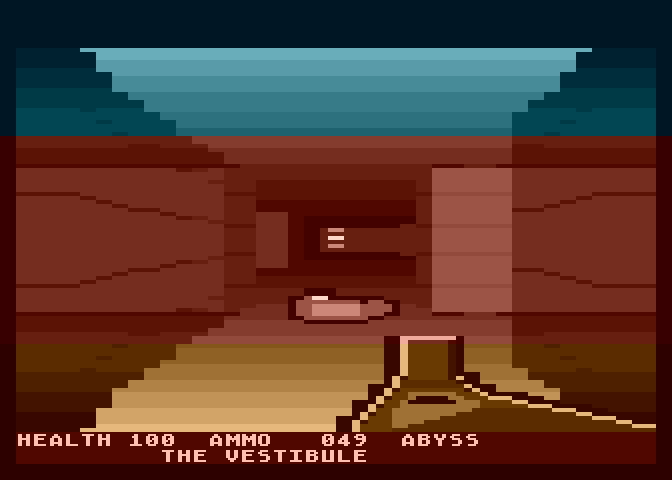
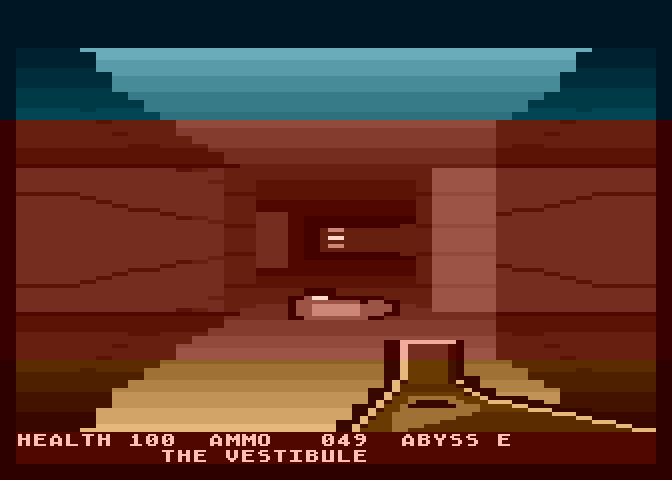
A compass on the status line, and a check that was measuring the autoplayer
Built after the map rather than instead of it, which turned out to be the right
order: the map settles the question the compass could not answer alone. There
is now one place that decides north. gentables.py builds the ray table with
dx=cos and dy=sin, so angle 0 is +X and the grid is row-major, so +Y is DOWN
the map -- north is -Y, which is up the map screen. `N` on the status line and
up on the map mean the same thing by construction, which is why the compass
lives in automap.asm and not with the HUD.

43 bytes: 16 of table, the rest a tail call off the HUD's alive path. Alive
path only -- the banners are 32 characters and own columns 30-31 while up.
Columns 30-31 and not 32-39, because every string in the game stops at 32 and
that is the part of a 40-column line a real CRT has been seen to show.

The check drives each cardinal into pang and makes the player WALK, because
comparing the two characters against a list would only prove the table was
copied correctly. What can actually be wrong is the convention, and a compass
rotated ninety degrees is worse than none: you would trust it.

Then `the hulk towers over a husk` failed at 1.19 against a threshold of 1.2,
having read 1.23 the day before. 43 bytes of HUD code cannot change how tall a
hulk is, and did not. The check spawned its subject three cells east of wherever
the player had DRIFTED to by frame 200, facing whatever they faced, separately
[…]

diff --git a/site/index.html b/site/index.html
@@ -151,7 +151,7 @@ footer .wrap{display:flex;justify-content:space-between;gap:20px;flex-wrap:wrap}
 <section id="play">
   <div class="wrap">
     <h2>PLAY</h2>
-    <p class="lead">This is the real game — byte-for-byte the same 30,083-byte executable that runs
+    <p class="lead">This is the real game — byte-for-byte the same 30,126-byte executable that runs
     on the hardware, here running in an Atari 800XL emulator compiled to WebAssembly. PAL, with
     sound: an audio engine that for most of this game's life was verified only as POKEY register
     traces, never actually heard.</p>
@@ -203,6 +203,16 @@ footer .wrap{display:flex;justify-content:space-between;gap:20px;flex-wrap:wrap}
         <p class="note">Fire is also the carry-on button — it starts the game, clears every banner and
         restarts you when you die. Whenever the game is waiting, it is waiting for fire, and it says so
         on screen.</p>
+      </div>
+
+      <div class="card"><h3>THE COMPASS</h3>
+        <p>Two letters on the right of the status line, reading to eight points:
+        <code>HEALTH 100&nbsp;&nbsp;AMMO&nbsp;&nbsp;&nbsp;050&nbsp;&nbsp;ABYSS SE</code></p>
+        <p class="note">Worth more than it looks. Every hall down here is a regular grid of pillars, so
+        once you have turned round twice inside one there is nothing in the view to tell you which way
+        you came in — the compass is the thing that tells you. It shares its north with the map:
+        <b><kbd>N</kbd> on the status line is up on the map screen</b>, so turn until it reads N and you
+        are walking up the map. It steps aside while a message is up, and comes back when it clears.</p>
       </div>
 
       <div class="card"><h3>THE MAP — ONLY WHAT YOU LOOKED AT</h3>
@@ -290,7 +300,7 @@ footer .wrap{display:flex;justify-content:space-between;gap:20px;flex-wrap:wrap}
       <div><b>5</b><span>CYCLES A PIXEL &mdash; THE 6502 FLOOR</span></div>
       <div><b>~10.2 fps</b><span>WORLD RENDER</span></div>
       <div><b>50 Hz</b><span>INPUT, WHATEVER THE RENDERER IS DOING</span></div>
-      <div><b>75/75</b><span>CHECKS, ALL ON PIXELS OR STATE</span></div>
+      <div><b>76/76</b><span>CHECKS, ALL ON PIXELS OR STATE</span></div>
       <div><b>1</b><span>NIGHT TO BUILD</span></div>
     </div>
     <div class="cols" style="margin-top:26px">
@@ -351,7 +361,7 @@ footer .wrap{display:flex;justify-content:space-between;gap:20px;flex-wrap:wrap}
 
 <footer>
   <div class="wrap">
-    <span>ABYSS &middot; <a href="https://github.com/tonygillett136/a8doomish">github.com/tonygillett136/a8doomish</a> &middot; <a href="emu/abyss.xex" download>abyss.xex</a> (30,083 bytes)</span>
+    <span>ABYSS &middot; <a href="https://github.com/tonygillett136/a8doomish">github.com/tonygillett136/a8doomish</a> &middot; <a href="emu/abyss.xex" download>abyss.xex</a> (30,126 bytes)</span>
     <span>Built by <a href="https://claude.com/claude-code">Claude Code</a> with Tony Gillett.
     Not affiliated with id Software; DOOM is a trademark of id Software LLC.</span>
   </div>

diff --git a/tools/verify.py b/tools/verify.py
@@ -516,6 +516,13 @@ class Sweep:
                  sec is True, 'a secret reads as something other than stone'
                  if sec is not True else '')
 
+        points, agree = self.compass()
+        want = ['E', 'SE', 'S', 'SW', 'W', 'NW', 'N', 'NE']
+        self.chk('the compass points where you walk',
+                 points == want and agree,
+                 'the eight points read %s; walking each cardinal %s the letter'
+                 % (' '.join(points), 'agrees with' if agree else 'CONTRADICTS'))
+
         drew, held, freed, stalled, off = self.map_key()
         self.chk('START holds the map up and stops the world',
                  drew and held and freed and stalled,
@@ -758,6 +765,24 @@ class Sweep:
     def hulk_ratio(self):
         import metrics as M
 
+        # (13,6) is open on all four sides and looks east down a clear row;
+        # the subject stands at (16,6), three cells away.
+        EYE, SUBJ, EAST = (13, 6), (16, 6), 0
+
+        def pin(s):
+            """Nail the viewpoint down. This check used to measure from
+            wherever the player had drifted to by frame 200, facing whatever
+            they happened to be facing, with the subject planted three cells
+            east of THAT -- so the husk and the hulk were not being compared
+            from the same place, and the ratio wandered whenever anything
+            shifted the frame timing. Forty-three bytes of compass moved it
+            from 1.23 to 1.19 and failed a threshold of 1.2, having changed
+            nothing whatever about how tall a hulk is. Same cell, same heading,
+            same three cells of corridor, both times."""
+            s.p[PX_HI], s.p[PX_LO] = EYE[0], 0x80
+            s.p[PY_HI], s.p[PY_LO] = EYE[1], 0x80
+            s.p[PANG] = EAST
+
         def rows(ty):
             s = Sweep(self.xex)
             s.a.frame(80)
@@ -765,17 +790,17 @@ class Sweep:
             s.a.frame(200)
             for i in range(6):
                 s.p[AC_LIVE + i] = 0
-            s.go(20)
-            ref = M.luma(M.grab(s.a))
-            m = s.m()
-            for ad, v in ((AC_XHI, m[PX_HI] + 3), (AC_XLO, 0x80),
-                          (AC_YHI, m[PY_HI]), (AC_YLO, 0x80),
-                          (AC_LIVE, 1), (AC_STATE, 1), (AC_HP, 250)):
-                s.p[ad] = v
-            s.p[AC_TYPE] = ty
             for _ in range(20):
-                s.p[AC_HP] = 250
-                s.p[AC_TYPE] = ty
+                pin(s)
+                s.a.frame(1)
+            ref = M.luma(M.grab(s.a))
+            for _ in range(20):
+                pin(s)
+                for ad, v in ((AC_XHI, SUBJ[0]), (AC_XLO, 0x80),
+                              (AC_YHI, SUBJ[1]), (AC_YLO, 0x80),
+                              (AC_LIVE, 1), (AC_STATE, 1), (AC_HP, 250),
+                              (AC_TYPE, ty)):
+                    s.p[ad] = v     # position too: left alone, it walks at you
                 s.a.frame(1)
             now = M.luma(M.grab(s.a))
             return sum(1 for r in range(96)
@@ -956,6 +981,54 @@ class Sweep:
         s.descend()
         fresh = sum(1 for i in range(1024) if s.m()[VIS + i])
         return fresh, seen, 1024 - seen, wrong, secret
+
+    def compass(self):
+        """The heading on the status line, checked against where you WALK.
+
+        Reading the two characters back and comparing them to a table would
+        only prove the table was copied correctly into the binary. The thing
+        that can actually be wrong is the CONVENTION -- whether angle 0 is +X
+        or +Y, and whether north is up the map or down it -- and a compass that
+        is rotated ninety degrees is worse than no compass at all. So each
+        cardinal is driven into `pang`, the player is made to walk, and the
+        letter has to agree with the direction they went.
+        """
+        CH = {0: ' ', 37: 'E', 51: 'S', 55: 'W', 46: 'N'}
+        col = HUDRAM + 40 + 30
+        s = Sweep(self.xex)
+        s.a.frame(80)
+        s.pull_trigger()
+        s.a.frame(60)
+
+        def letter():
+            m = s.m()
+            return (CH.get(m[col], '?') + CH.get(m[col + 1], '?')).strip()
+
+        points = []
+        for ang in range(0, 256, 32):
+            s.p[PANG] = ang
+            s.go_tick()
+            points.append(letter())
+
+        agree = True
+        for ang, want in ((0, 'E'), (64, 'S'), (128, 'W'), (192, 'N')):
+            s.p[PX_HI], s.p[PX_LO] = 13, 0x80    # open on all four sides
+            s.p[PY_HI], s.p[PY_LO] = 6, 0x80
+            s.p[PANG] = ang
+            s.go_tick()
+            got = letter()
+            m = s.m()
+            x0, y0 = m[PX_HI] * 256 + m[PX_LO], m[PY_HI] * 256 + m[PY_LO]
+            for _ in range(4):
+                s.go_tick(joy=1)
+            m = s.m()
+            dx = m[PX_HI] * 256 + m[PX_LO] - x0
+            dy = m[PY_HI] * 256 + m[PY_LO] - y0
+            # east is +X; north is -Y, which is UP the map
+            walked = {'E': dx > 40, 'W': dx < -40,
+                      'S': dy > 40, 'N': dy < -40}[want]
+            agree &= (got == want) and walked
+        return points, agree
 
     def map_key(self):
         """Hold START: the map goes up, the hue goes flat, the world stops.

diff --git a/DEVLOG.md b/DEVLOG.md
@@ -2911,3 +2911,75 @@ PNG. Which was the open question — the aspect-ratio arithmetic said the cells
 would come out square on a 4:3 tube, but the emulator renders 384x240 square
 buffer pixels and cannot show you that, so the shape of the map was the one
 thing no amount of sweeping could confirm.
+
+---
+
+## The compass, and a check that was measuring the wrong thing
+
+Tony: *"BTW, I didn't see the compass?"* He hadn't, because it was never built
+— he picked the map out of the two ideas and the map is what got made. Building
+it now, after the map rather than instead of it, turned out to be the better
+order anyway, because the map settles the question the compass could not answer
+on its own: **which way is north.**
+
+There is now exactly one place in the codebase that decides it. `gentables.py`
+builds the ray table with `dx=cos, dy=sin`, so angle 0 is +X and 64 is +Y; the
+grid is row-major, so +Y is *down* the map. North is therefore -Y, which is up
+the map screen — and `N` on the status line and up on the map now mean the same
+thing by construction. The compass lives in `automap.asm` for that reason and
+not because it is anything to do with drawing a map.
+
+Forty-three bytes: sixteen of table, the rest a `jmp compass_hud` tail call off
+the end of the HUD's alive path. Only the alive path, because the banners are
+32 characters wide and own columns 30-31 while they are up; a heading in the
+middle of `FIRE TO DESCEND` is not an improvement. Columns 30-31 and not 32-39,
+too — the line is 40 wide, every string in the game stops at 32, and 32 columns
+is the part of it a real CRT has actually been seen to display.
+
+### Verifying a convention, not a table
+
+Reading the two characters back and comparing them against a list would only
+prove the table had been copied into the binary correctly. The thing that can
+actually be wrong is the *convention* — whether angle 0 is +X or +Y, whether
+north is up the map or down it — and a compass rotated ninety degrees is worse
+than no compass at all, because you would trust it.
+
+So the check drives each cardinal into `pang`, makes the player **walk**, and
+requires the letter to agree with the direction they went. All four agree:
+`E` moves +X, `S` moves +Y, `W` moves -X, `N` moves -Y.
+
+### The check that had been measuring the autoplayer
+
+Adding the compass failed `the hulk towers over a husk`: ratio 1.19 against a
+threshold of 1.2, where it had read 1.23 the day before. Forty-three bytes of
+HUD code cannot change how tall a hulk is, and did not.
+
+The check spawned its subject three cells east of **wherever the player had
+drifted to by frame 200**, facing whatever they happened to be facing, and did
+that separately for the husk and for the hulk. So the two measurements were not
+being taken from the same place, and the ratio moved whenever anything at all
+shifted the frame timing — which twenty extra cycles in the VBI duly did. The
+number was never a fact about hulks. It was a fact about where the autoplayer
+had got to.
+
+Pinned the viewpoint instead of loosening the threshold: same cell, same
+heading, three cells of clear corridor, the subject's position re-poked every
+frame so it cannot walk closer while being measured. The proof it worked is
+that the *old* binary and the *new* one now return **1.222 and 1.222** — where
+before they returned 1.23 and 1.19.
+
+Loosening the threshold would have made the failure go away and left the check
+measuring the same wrong thing, slightly more tolerantly. This file has a rule
+about that written at the top of `verify.py`, and this is the third time it has
+had to be applied.
+
+### And the screenshots
+
+Every gallery shot showed a status line with no compass on it, which is the same
+failure this log complained about two entries ago — pictures that stopped
+tracking the code. `gallery.py` regenerated eleven of them, each one asserting
+its own condition against RAM. The twelfth, the bestiary hulk, is not one of
+`gallery.py`'s and was recaptured with the same discipline: level asserted,
+slot TYPE asserted, three cells of clear line between.
+
+**76/76.**

diff --git a/README.md b/README.md
@@ -14,8 +14,8 @@
   <img src="https://img.shields.io/badge/platform-Atari%20800XL%2FXE-8b1a1a">
   <img src="https://img.shields.io/badge/PAL-64K-8b1a1a">
   <img src="https://img.shields.io/badge/6502-assembly-333">
-  <img src="https://img.shields.io/badge/binary-29%2C606%20bytes-333">
-  <img src="https://img.shields.io/badge/acceptance%20sweep-75%2F75-2e7d32">
+  <img src="https://img.shields.io/badge/binary-30%2C126%20bytes-333">
+  <img src="https://img.shields.io/badge/acceptance%20sweep-76%2F76-2e7d32">
 </p>
 
 ---
@@ -236,7 +236,7 @@ contains; `tools/gallery.py` takes the screenshots.
 
 | | |
 |---|---|
-| **Acceptance sweep** | **75 / 75** — every one of them asserting on pixels or game state, not on a variable having changed |
+| **Acceptance sweep** | **76 / 76** — every one of them asserting on pixels or game state, not on a variable having changed |
 | Full playthrough | all four levels, ~22 shots, 0 deaths — path-finding to each **real** exit |
 | Render rate | 11.9 fps empty corridor, 9.3 fps with an enemy in your face |
 | The bestiary, measured | hulk 120→60→0 over exactly two point-blank shots; gunner attacking within 150 frames; hulk 1.23× a husk's height | all sweep checks |
@@ -349,7 +349,7 @@ doesn't.
 
 ```sh
 ./build.sh                     # -> abyss.xex
-python3 tools/verify.py        # 75-point acceptance sweep, in process
+python3 tools/verify.py        # 76-point acceptance sweep, in process
 python3 tools/metrics.py       # what the picture actually contains, measured
 python3 tools/gallery.py       # screenshots, each checked against game state
 ```

diff --git a/docs/PLAYING.md b/docs/PLAYING.md
@@ -7,7 +7,7 @@ blank. Four floors lie below you. Each one has a way down, and the way down is
 the only way on.
 
 Nothing here needs explaining twice. There is one weapon, one direction — down
-— and a map that fills itself in as you look around.
+— a compass, and a map that fills itself in as you look around.
 
 ---
 
@@ -43,15 +43,25 @@ Two lines along the bottom. The top line is you, the bottom line is where you
 are.
 
 ```
-HEALTH 100  AMMO 050  ABYSS
-        THE VESTIBULE
+HEALTH 100  AMMO   050  ABYSS SE
+         THE VESTIBULE
 ```
 
 You start every run with **100 health** and **50 shells**.
 
+The two letters on the right are **the compass** — the direction you are
+facing, to eight points. It is worth more than it looks. Every hall in this
+game is a regular grid of pillars, so once you have turned round twice inside
+one there is nothing in the view to tell you which way you came in. The compass
+is the thing that tells you.
+
+It shares its north with the map: **`N` on the status line is up on the map
+screen.** Turn until it reads `N` and you are walking up the map.
+
 That top line is also where the game talks to you. When it has something to
 say — you have cleared the floor, you have died — the message replaces it, and
-the floor name stays put underneath.
+the floor name stays put underneath. The compass steps aside while a message is
+up and comes back when it clears.
 
 There is deliberately no clock and no key display. What you have found and how
 long you have taken are things you are expected to carry in your head.
